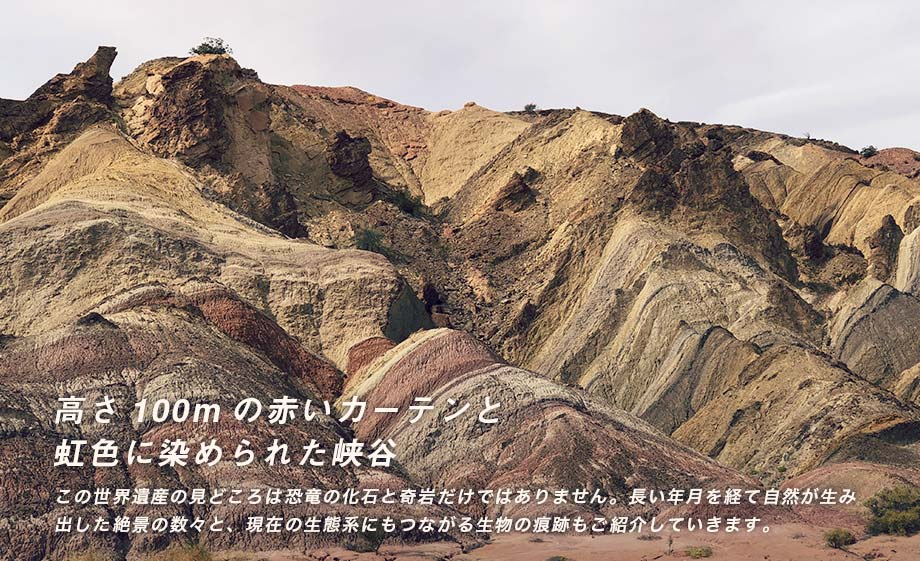
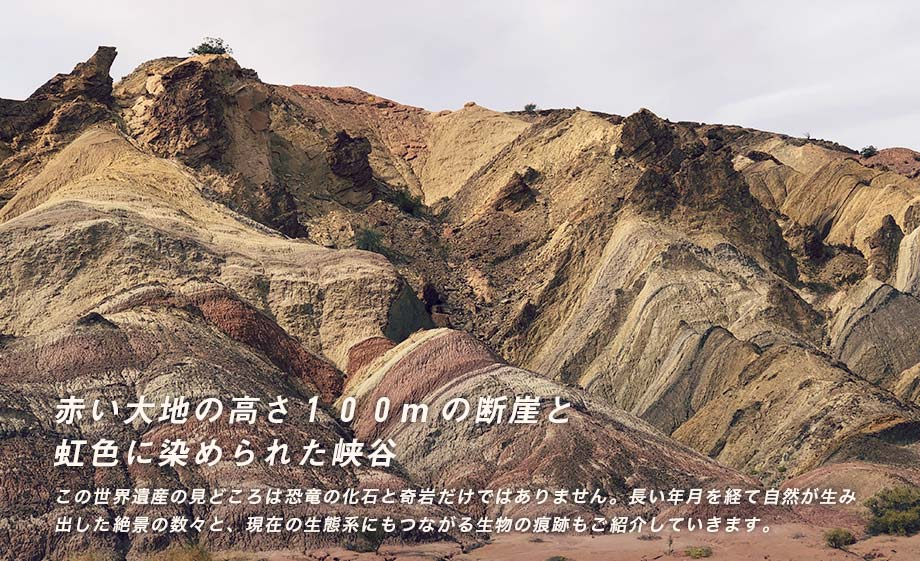
[update1910] done

Changed region(s): [[0.0609, 0.697, 0.6391, 0.7576]]

diff --git a/feature/2019/201910_01.html b/feature/2019/201910_01.html
@@ -59,7 +59,7 @@
         <noscript>Javascript を有効にしてください</noscript>
         <img src="../../img/feature/fullsize_dammy.gif" onContextmenu="return false" alt="" class="feature_dammy" />
     </div><!-- featureWideImage -->
-    <p class="wideCaption">一見するとただの荒野のようですが、世界的にも珍しい三畳紀後期の地層が露出した土地で、ここから貴重な恐竜の化石が発見されたのです</p>  
+    <p class="wideCaption">「月の谷」とも呼ばれ、地球とは思えないような景色。世界的にも珍しい三畳紀後期の地層が露出し、貴重な恐竜の化石が発見されたのです。</p>  
 
     <div class="featureInterviewArea int1910">
         <p class="featureAsk">──具体的には、どのような化石が発掘されているのでしょうか。</p>
@@ -83,7 +83,7 @@
 
      <div class="featureInterviewArea int1910">
         <p class="featureAsk">──エオラプトルとは、どんな恐竜なのでしょうか？</p>
-        <p class="featureAns">小澤：体長は約1メートルの、爬虫類から恐竜に進化した最初期の恐竜です。恐竜というと、ティラノサウルスやトリケラトプスのような大型のものを思い浮かべるかもしれませんが、初期の恐竜は比較的小型だったのです。エオラプトルの全身骨格が1991年に、イスチグアラスト州立公園で発見されました。この時代の恐竜の化石は世界でも他に見つかっておらず、恐竜の進化を知る上で、非常に重要な発見でした。今回の取材では、このエオラプトルの全身骨格化石を発見した古生物学者のリカルド・マルティネス博士の全面的に協力を得て、通常は撮影できない場所に入ったり、そうした貴重な化石を撮影することができましたエオラプトルの全身骨格化石の実物や、マルティネス博士が実際に発掘している現場も映像に収めています。</p>
+        <p class="featureAns">小澤：体長は約1メートルの、爬虫類から恐竜に進化した最初期の恐竜です。恐竜というと、ティラノサウルスやトリケラトプスのような大型のものを思い浮かべるかもしれませんが、初期の恐竜は比較的小型だったのです。エオラプトルの全身骨格が1991年に、イスチグアラスト州立公園で発見されました。この時代の恐竜の化石は世界でも他に見つかっておらず、恐竜の進化を知る上で、非常に重要な発見でした。今回の取材では、このエオラプトルの全身骨格化石を発見した古生物学者のリカルド・マルティネス博士の全面的に協力を得て、通常は撮影できない場所に入ったり、そうした貴重な化石を撮影することができました。エオラプトルの全身骨格化石の実物や、マルティネス博士が実際に発掘している現場も映像に収めています。</p>
     </div><!-- featureInterviewArea -->
 
 
@@ -104,9 +104,9 @@
 
     <div class="featureInterviewArea int1910">
         <p class="featureAsk">──なぜ、イスチグアラスト・タランパジャ自然公園群では、貴重な化石が発見されるのでしょうか？</p>
-        <p class="featureAns">小澤：ここでは三畳紀後期の地層が地表に出ているからです。この世界遺産を衛星から撮影した映像を見ると白い土地と赤い土地に大きく分かれていて、化石が発掘されているのは主に白い土地のイスチグアラスト州立公園です。色の違いは、地層の違いで、白いのはかつて川や湖だった土地で、柔らかい地層です。そのため、雨や風によって削られて、埋まっていた化石が露出するため、見つかりやすいのです。</p>
+        <p class="featureAns">小澤：ここでは三畳紀後期の地層が地表に出ているからです。衛星写真を見ると白と赤の土地に分かれていて、赤はタランパジャ国立公園なんですが、化石が多く発掘されているのは白のイスチグアラスト州立公園なんです。色の違いは、地層の違いで、白いのはかつて川や湖だった土地で、柔らかい地層です。そのため、雨や風によって削られて、埋まっていた化石が露出するため、見つかりやすいのです。</p>
         <p class="featureAsk">──かつての地形や地上に露出している地層などの条件が整ったため、貴重な化石が発見されているということですね。</p>
-        <p class="featureAns">小澤：そうなんです。また地層の固さの違いでイスチグアラスト州立公園では、実に奇妙な岩の光景が見られ、それも番組の見どころです。そのかたちから「スブリマーノ（潜水艦）」「エル・フンゴ（きのこ）」と呼ばれる、上のほうが大きくなっている不思議な岩の数々をご紹介します。</p>
+        <p class="featureAns">小澤：そうなんです。また地層の固さの違いでイスチグアラスト州立公園では、実に奇妙な岩の光景が見られ、それも番組の見どころです。そのかたちから「スブマリーノ（潜水艦）」「エル・オンゴ（きのこ）」と呼ばれる、上のほうが大きくなっている不思議な岩の数々をご紹介します。</p>
     </div><!-- featureInterviewArea -->
 
     <div class="featureWideImage lazy squareWideImage" data-img="../../img/feature/2019/1910/ischi1_04.jpg">
@@ -126,7 +126,7 @@
 
     <div class="featureInterviewArea int1910">
         <p class="featureAsk">──地層と奇岩にはどういう関連性があるのでしょうか？</p>
-        <p class="featureAns">小澤：奇岩の上の部分、エル・フンゴでいうと「きのこの傘」のところは固い岩のため、侵食が少なく、一方その下の柔らかな層の部分は風によって削られてくびれたため、このような絶妙なバランスを取った岩になったのです。</p>
+        <p class="featureAns">小澤：奇岩の上の部分、エル・オンゴでいうと「きのこの傘」のところは固い岩のため、侵食が少なく、一方その下の柔らかな層の部分は風によって削られてくびれたため、このような絶妙なバランスを取った岩になったのです。</p>
         <p class="featureAsk">──化石の発見しやすさと奇岩の成り立ちが、同じ地層がもとになっているのは面白いですね。</p>
         
     </div><!-- featureInterviewArea -->
@@ -157,8 +157,8 @@
 <script src="/um/v7/js/gh_smp.js"></script>
 <script src="/um/library/jquery/jquery-3.3.1.min.js"></script>
 <script src="../../js/common.js"></script>
-<script src="../../js/jquery-1.9.1.min.js"></script>
-<script src="../../js/feature2015.js"></script>
+<!-- <script src="../../js/jquery-1.9.1.min.js"></script>
+<script src="../../js/feature2015.js"></script> -->
 <script src="/um/library/js/lazyload_ver2.js"></script>
 <script>LazyLoad();</script>
 </body>

diff --git a/feature/2019/201910_02.html b/feature/2019/201910_02.html
@@ -43,14 +43,14 @@
 
 
 	<div class="lazy" id="featureCover191001" data-img="../../img/feature/2019/1910/ischi2_cover.jpg">
-    <h4 class="alt">高さ100mの赤いカーテンと虹色に染められた峡谷</h4>
+    <h4 class="alt">赤い大地の高さ１００mの断崖と虹色に染められた峡谷</h4>
     <p class="alt">この世界遺産の見どころは恐竜の化石と奇岩だけではありません。長い年月を経て自然が生み出した絶景の数々と、現在の生態系にもつながる生物の痕跡もご紹介していきます。</p>
     <img src="../../img/feature/cover_dammy.gif" onContextmenu="return false" alt="" class="feature_dammy" />
     </div><!-- featureCoverArea1505 -->
 
     <div class="featureInterviewArea int1910">
         <p class="featureAsk">──さきほど、衛星から見て「白い土地」から化石が見つかったお話がありましたが、もう１つの「赤い土地」はどんな場所なのでしょうか？</p>
-        <p class="featureAns">小澤：赤い地層は、白い土地より新しい地層です。砂岩で、砂に含まれる鉄分が酸化して赤くなっています。白い土地よりも固い岩のため、赤い岩の山として残っているのですが、その違いが最も分かりやすい場所が、イスチグアラストとタランパジャの境界にあります。そこでは、白い大地の隣に赤い岩の断崖が切り立っている場所があります。100メートルもある崖の表面が、風で巻き上げられた砂によって長年削られた結果、まるでカーテンのように滑らかに波打つ壁になっているのです。</p>
+        <p class="featureAns">小澤：赤い土地は白い地層よりも上にある新しい地層です。砂岩で、砂に含まれる鉄分が酸化して赤くなっています。ここでは赤い断崖が延々と続いています。100メートルもある崖の表面が、風で巻き上げられた砂によって長年削られた結果、まるでカーテンのように滑らかに波打つ壁になっているのです。</p>
     </div><!-- featureInterviewArea -->
 
 
@@ -71,7 +71,7 @@
 
     <div class="featureInterviewArea int1910">
         <p class="featureAsk">──途方もない長い年月をかけて自然が生み出した絶景ですね。</p>
-        <p class="featureAns">小澤：自然が生み出した絶景では「虹の渓谷」と呼ばれる丘も素晴らしい眺めでした。ここでは、普通は横に重なっている地層が地殻変動のため、折れ曲がって縦になってむき出しになっているのです。そのため、丘にはカラフルで美しい縞模様が表れています。その不思議な光景を、ドローンを駆使して空から撮影しました。そのほかに不思議な光景では、「カンチャ・デ・ボチャス（ボッチャの競技場）」という場所もありました。そこには、直径30センチほどの球体の岩が多数、地面に転がっているのです。この丸い岩は、生物の死骸などを核としてカルシウムなどの成分が固まったものと言われているのですが、詳しいことはまだわかっていません。</p>
+        <p class="featureAns">小澤：自然が生み出した絶景では「虹の渓谷」と呼ばれる丘も素晴らしい眺めでした。ここでは、普通は横に重なっている地層が地殻変動のため、折れ曲がって縦になってむき出しになっているのです。そのため、丘にはカラフルで美しい縞模様が表れています。その不思議な光景を、ドローンを駆使して空から撮影しました。ドローン映像といえば、イスチグアラストに「カンチャ・デ・ボチャス（ボッチャの競技場）」という場所があるのですが、それもドローンの低空飛行で撮ったので必見です。そこには、直径30センチほどの球体の岩が多数、地面に転がっているのです。この丸い岩は、生物の死骸などを核としてカルシウムなどの成分が固まったものと言われているのですが、詳しいことはまだわかっていません。</p>
     </div><!-- featureInterviewArea -->
 
 
@@ -87,7 +87,7 @@
     </div><!-- featureWideImage -->
 
      <div class="featureSquareWrapper">
-        <p class="squareCaption right">直径30センチほどの球体の岩が多数、地面に転がっている「カンチャ・デ・ボチャス」。</p>
+        <p class="squareCaption right">直径30センチほどの球体の岩が多数、地面に転がっている「カンチャ・デ・ボチャス」（イスチグアラスト州立公園）。</p>
         <div class="featureSquareArea squareLeft">
             <div class="lazy squareImage" data-img="../../img/feature/2019/1910/ischi2_sq2.jpg">
             </div><!-- squareImage -->
@@ -171,8 +171,8 @@
 <script src="/um/v7/js/gh_smp.js"></script>
 <script src="/um/library/jquery/jquery-3.3.1.min.js"></script>
 <script src="../../js/common.js"></script>
-<script src="../../js/jquery-1.9.1.min.js"></script>
-<script src="../../js/feature2015.js"></script>
+<!-- <script src="../../js/jquery-1.9.1.min.js"></script>
+<script src="../../js/feature2015.js"></script> -->
 <script src="/um/library/js/lazyload_ver2.js"></script>
 <script>LazyLoad();</script>
 </body>
